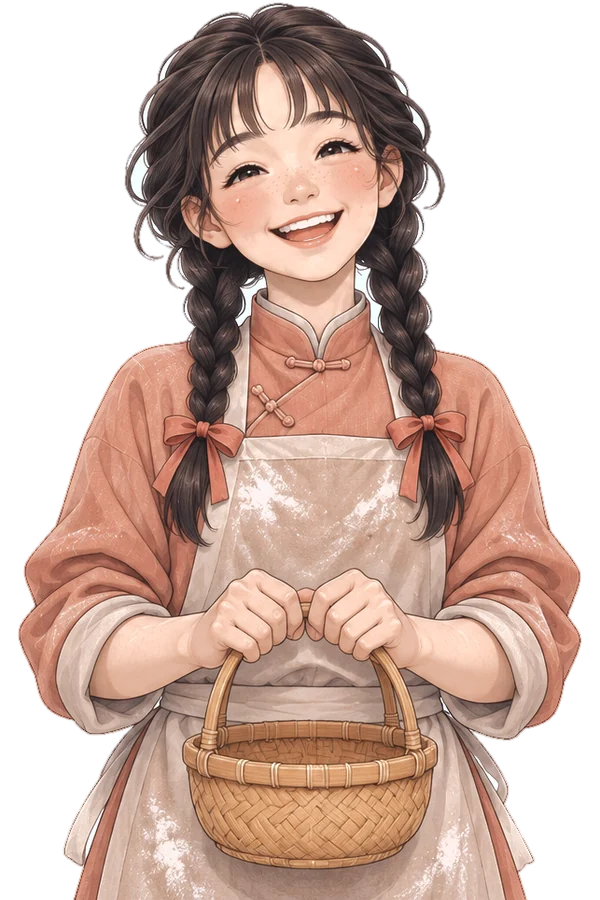
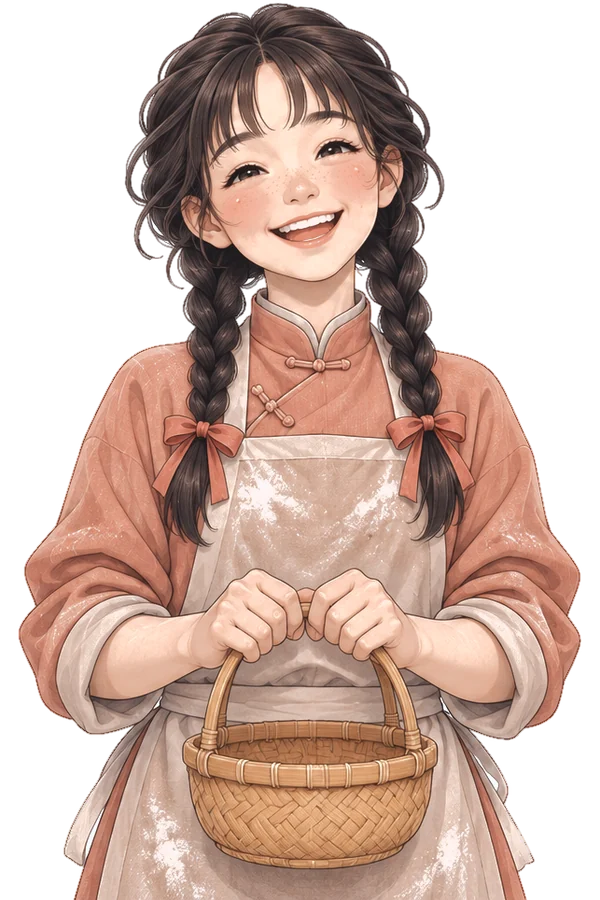
Clean the townsfolk cutouts and shrink the tap glow
Claude-Session: https://claude.ai/code/session_01XCUKzcPcWhaS8NW1YCmpq8

diff --git a/v/20261110-220338/index.html b/v/20261110-220338/index.html
@@ -17,7 +17,7 @@ body{touch-action:manipulation;overscroll-behavior:none}
   padding:9px 18px;font:15px "LXGW WenKai TC","Kaiti TC",serif;letter-spacing:.12em;color:#fbf2df;cursor:pointer;
   background:rgba(22,15,11,.92);border:1px solid #ecd7a2;border-radius:999px;box-shadow:0 6px 20px rgba(0,0,0,.45);white-space:nowrap}
 </style>
-<script>window.GAME_VERSION = '20261110-214649';</script>
+<script>window.GAME_VERSION = '20261110-220338';</script>
 <title>花朝靈院</title>
 <link rel="icon" type="image/png" sizes="32x32" href="icons/icon-32.png">
 <link rel="apple-touch-icon" sizes="180x180" href="icons/icon-180.png">
@@ -356,12 +356,12 @@ button:focus-visible,input:focus-visible,[tabindex]:focus-visible{outline:2px so
 .tag2.ok{color:var(--house);font-weight:700}
 
 /* tap feedback: a gold glow where the finger lands, and a short glow on the pressed control */
-.tapfx{position:absolute;z-index:200;width:84px;height:84px;margin:-42px 0 0 -42px;border-radius:50%;pointer-events:none;
-  border:2px solid rgba(214,166,72,.9);box-shadow:0 0 14px 3px rgba(246,205,120,.75),inset 0 0 12px 2px rgba(246,205,120,.6);
-  background:radial-gradient(circle,rgba(255,236,180,.7),rgba(246,215,140,.25) 45%,rgba(246,215,140,0) 70%);animation:tapfx .55s ease-out forwards}
-@keyframes tapfx{from{transform:scale(.45);opacity:1}60%{opacity:.8}to{transform:scale(1.25);opacity:0}}
-.glow{animation:btnglow .5s ease-out}
-@keyframes btnglow{0%{box-shadow:0 0 0 2px rgba(214,166,72,.95),0 0 26px 8px rgba(246,205,120,.9);filter:brightness(1.22)}100%{box-shadow:0 0 0 12px rgba(214,166,72,0),0 0 0 0 rgba(246,205,120,0);filter:none}}
+.tapfx{position:absolute;z-index:200;width:44px;height:44px;margin:-22px 0 0 -22px;border-radius:50%;pointer-events:none;
+  border:1.5px solid rgba(214,166,72,.85);box-shadow:0 0 8px 1px rgba(246,205,120,.6),inset 0 0 6px 1px rgba(246,205,120,.5);
+  background:radial-gradient(circle,rgba(255,236,180,.6),rgba(246,215,140,.2) 45%,rgba(246,215,140,0) 70%);animation:tapfx .45s ease-out forwards}
+@keyframes tapfx{from{transform:scale(.4);opacity:1}60%{opacity:.75}to{transform:scale(1.1);opacity:0}}
+.glow{animation:btnglow .45s ease-out}
+@keyframes btnglow{0%{box-shadow:0 0 0 1.5px rgba(214,166,72,.9),0 0 14px 3px rgba(246,205,120,.75);filter:brightness(1.15)}100%{box-shadow:0 0 0 6px rgba(214,166,72,0),0 0 0 0 rgba(246,205,120,0);filter:none}}
 button:not(:disabled):active,.cup:active,.shopitem:not(:disabled):active{filter:brightness(1.12)}
 @media (max-height:700px){.portrait{height:80%}.box{min-height:122px;padding:20px 18px 18px}.line{font-size:16.5px}.choices button{min-height:46px;padding:8px 14px 8px 18px}.place{font-size:22px}}
 @media (min-width:521px){#app{border-left:1px solid rgba(184,146,74,.25);border-right:1px solid rgba(184,146,74,.25)}}
@@ -408,8 +408,8 @@ button:not(:disabled):active,.cup:active,.shopitem:not(:disabled):active{filter:
     <div class="sp-tip" id="sptip"></div>
   </div>
 </div>
-<script src="audio.js?v=20261110-214649"></script>
-<script src="story.js?v=20261110-214649"></script>
+<script src="audio.js?v=20261110-220338"></script>
+<script src="story.js?v=20261110-220338"></script>
 <script>
 (() => {
 const {SORT,QUESTS2,CH2,LIFE,MAGIC,TEA,HOUSES,STATS,STAT_ORDER,C,BAI,GRAN,FACES,EV,QUESTS,MAIN,PROLOGUE,PLACES,LOOK,FREE,CLASS_TEXT,SCENE_IMG,SCENE_FALLBACK,CG} = window.STORY;

diff --git a/index.html b/index.html
@@ -24,7 +24,7 @@ p{position:fixed;left:0;right:0;bottom:calc(15vh + env(safe-area-inset-bottom,0p
 <script>
 // 入口：讀取最新版本號，再跳到該版本的網址。讀不到時，用上次玩過的版本或這個入口建立時的版本。
 (() => {
-  const FALLBACK = '20261110-214649';
+  const FALLBACK = '20261110-220338';
   const last = () => { try { return localStorage.getItem('huachao-last-v'); } catch (e) { return null; } };
   const go = v => location.replace('v/' + v + '/' + location.hash);
   let done = false;
